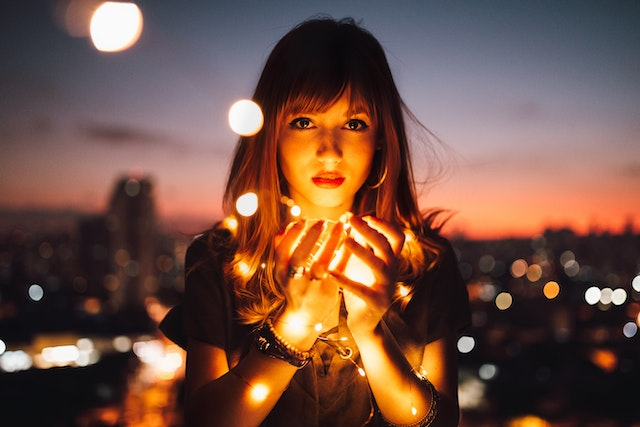
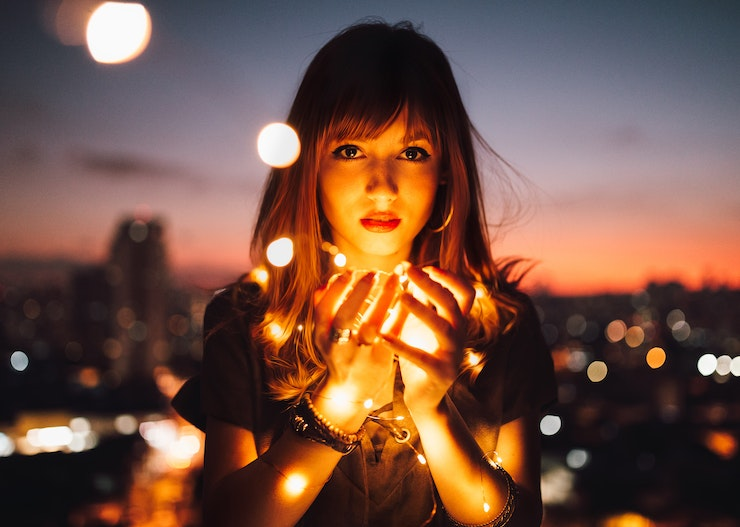
Inicio de la vista de los posts

diff --git a/resources/css/blog/_post.scss b/resources/css/blog/_post.scss
@@ -1,0 +1,71 @@
+@use "../base/variables" as v;
+@use "../base/mixins" as m;
+
+.post__container{
+    .portada__container{
+        display: flex;
+        flex-direction: column;
+        gap: 10px;
+        .portada{
+            background-repeat: no-repeat;
+            background-size: cover;
+            background-position: center center;
+            height: 396px;
+            padding: 20px;
+            display: flex;
+            .titulo{
+                color: v.$white;
+                align-self: end;
+                @include m.titulo-post;
+            }
+        }
+    
+        .portada__details{
+            display: flex;
+            gap: 40px;
+            font-size: .9rem;
+        }
+    }
+
+    .post-categoria__container{
+        display: flex;
+        justify-content: space-between;
+        .post__content{
+            width: 60%;
+            &-titulo{
+                font-weight: bolder;
+            }
+        }
+
+        .categoria__container{
+            width: 18%;
+            background-color: adjust-color($color: v.$bg-dark-green, $alpha: .7);
+            padding: 8px;
+            .titulo{
+                text-align: center;
+                color: v.$white;
+            }
+
+            ul{
+                list-style: none;
+                padding: 0;
+                li{
+                    display: flex;
+                    gap: 5px;
+                    figure{
+                        max-width: 131px;
+                        height: 88px;
+                    }
+                    .titulo-post{
+                        font-size: .7rem;
+                        color: v.$white;
+                        height: min-content;
+                        position: relative;
+                        @include m.efectoNavLinks(v.$white, 0.5px, 0px, 1s);
+                        
+                    }
+                }
+            }
+        }
+    }
+}

diff --git a/resources/css/base/_mixins.scss b/resources/css/base/_mixins.scss
@@ -136,6 +136,20 @@
     }
 }
 
+//Estilo de los títulos de los post
+@mixin titulo-post{
+    color: v.$white;
+    padding: 3px;
+    background: linear-gradient(45deg, transparent, v.$black);
+    font-size: 2rem;
+    font-weight: bold;
+}
+@mixin efectoImgPost{
+    transform: scale(1.2);
+    filter: brightness(0.5);
+    cursor: pointer;
+}
+
 //Media-query
 // Media queries
 @mixin mobile{

diff --git a/resources/css/blog/_index.scss b/resources/css/blog/_index.scss
@@ -1,3 +1,4 @@
 @forward "main-cards";
+@forward "post";
 @forward "resenas";
 @forward "ventajas";

diff --git a/resources/views/blog/post.blade.php b/resources/views/blog/post.blade.php
@@ -1,0 +1,54 @@
+@extends('layouts.plantilla')
+@section("title", "Books | $post->nombre")
+@section('content')
+<div class="container">
+    <nav class="pt-3" aria-label="breadcrumb">
+        <ol class="breadcrumb m-0">
+            <li class="breadcrumb-item"><a href="{{route('index')}}">Inicio</a></li>
+            <li class="breadcrumb-item" aria-current="page"><a href="{{route('blog')}}">Blog</a></li> 
+            {{-- FALTA ENLACE CATEGORÍA --}}
+            <li class="breadcrumb-item" aria-current="page"><a href="">{{$post->categoria->nombre}}</a></li>
+            <li class="breadcrumb-item active" aria-current="page">{{$post->nombre}}</li> 
+        </ol>
+    </nav>
+
+    <div class="post__container">
+        <div class="portada__container">
+            <div class="portada mt-3" style="background-image: url({{asset($post->portada)}})">
+                <p class="titulo">{{$post->nombre}}</p>
+            </div>
+            <div class="portada__details">
+                <p>{{$post->user->nombre}} {{$post->user->apellidos}}</p>
+                <p><i class="bi bi-calendar"></i> {{$post->created_at->format("d/m/Y")}}</p>
+            </div>
+        </div>
+
+        <div class="content__container mt-2">
+            <div class="post-categoria__container">
+                <div class="post__content">
+                    <h1 class="post__content-titulo">{{$post->nombre}}</h1>
+                    <p class="post__content-body">{{$post->cuerpo}}</p>
+                </div>
+                <div class="categoria__container">
+                    <h4 class="titulo">Más artículos de esta categoría</h4>
+                    <ul>
+                        @foreach ($postsMismaCategoria as $post)
+                            <li>
+                                <figure>
+                                    <img src="{{asset($post->portada)}}" alt="{{$post->nombre}}" class="img-fluid">
+                                </figure>
+                                <a href="{{route('show.post', $post->slug)}}" class="titulo-post">{{$post->nombre}}</a>
+                            </li>
+                        @endforeach
+                    </ul>
+                </div>
+            </div>
+            <div class="comentarios">
+                <div class="title">
+                    <p>Comentarios</p>
+                </div>
+            </div>
+        </div>
+    </div>
+</div>
+@endsection

diff --git a/app/Http/Controllers/PostController.php b/app/Http/Controllers/PostController.php
@@ -15,7 +15,9 @@ class PostController extends Controller{
     }
 
     public function showPost($slug){
+        $generos = LibroController::getGeneros();
         $post = Post::where('slug', $slug)->first();
-        dd($post);
+        $postsMismaCategoria = Post::where('categoria_id', $post->categoria->id)->where('nombre', '!=', $post->nombre)->take(3)->get();
+        return view('blog.post', compact('post', 'postsMismaCategoria', 'generos'));
     }
 }
